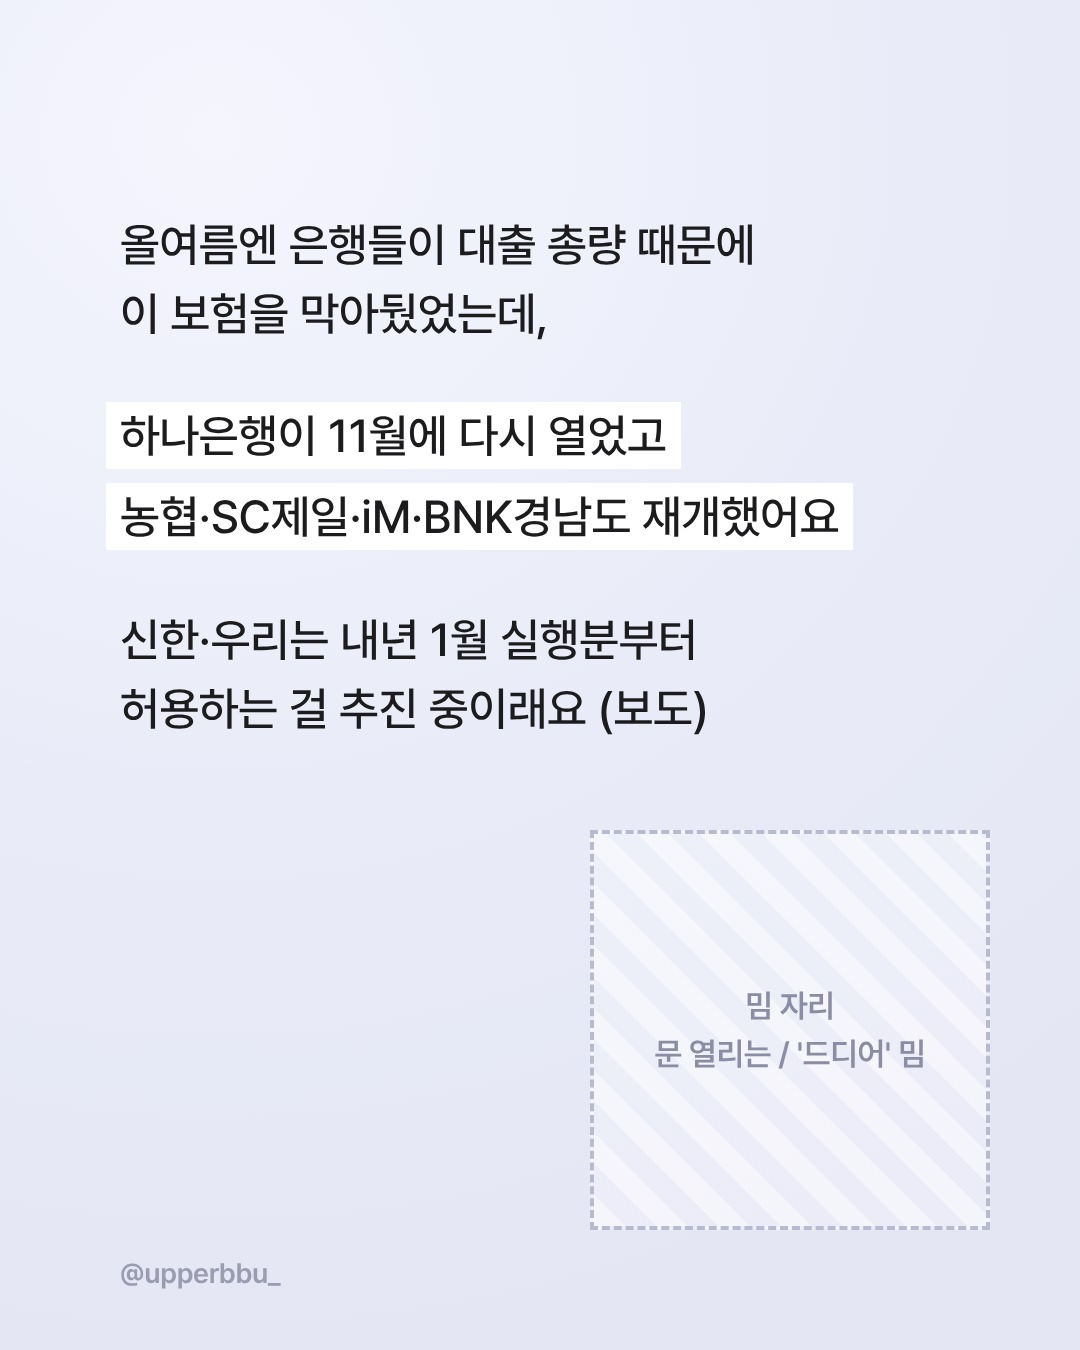
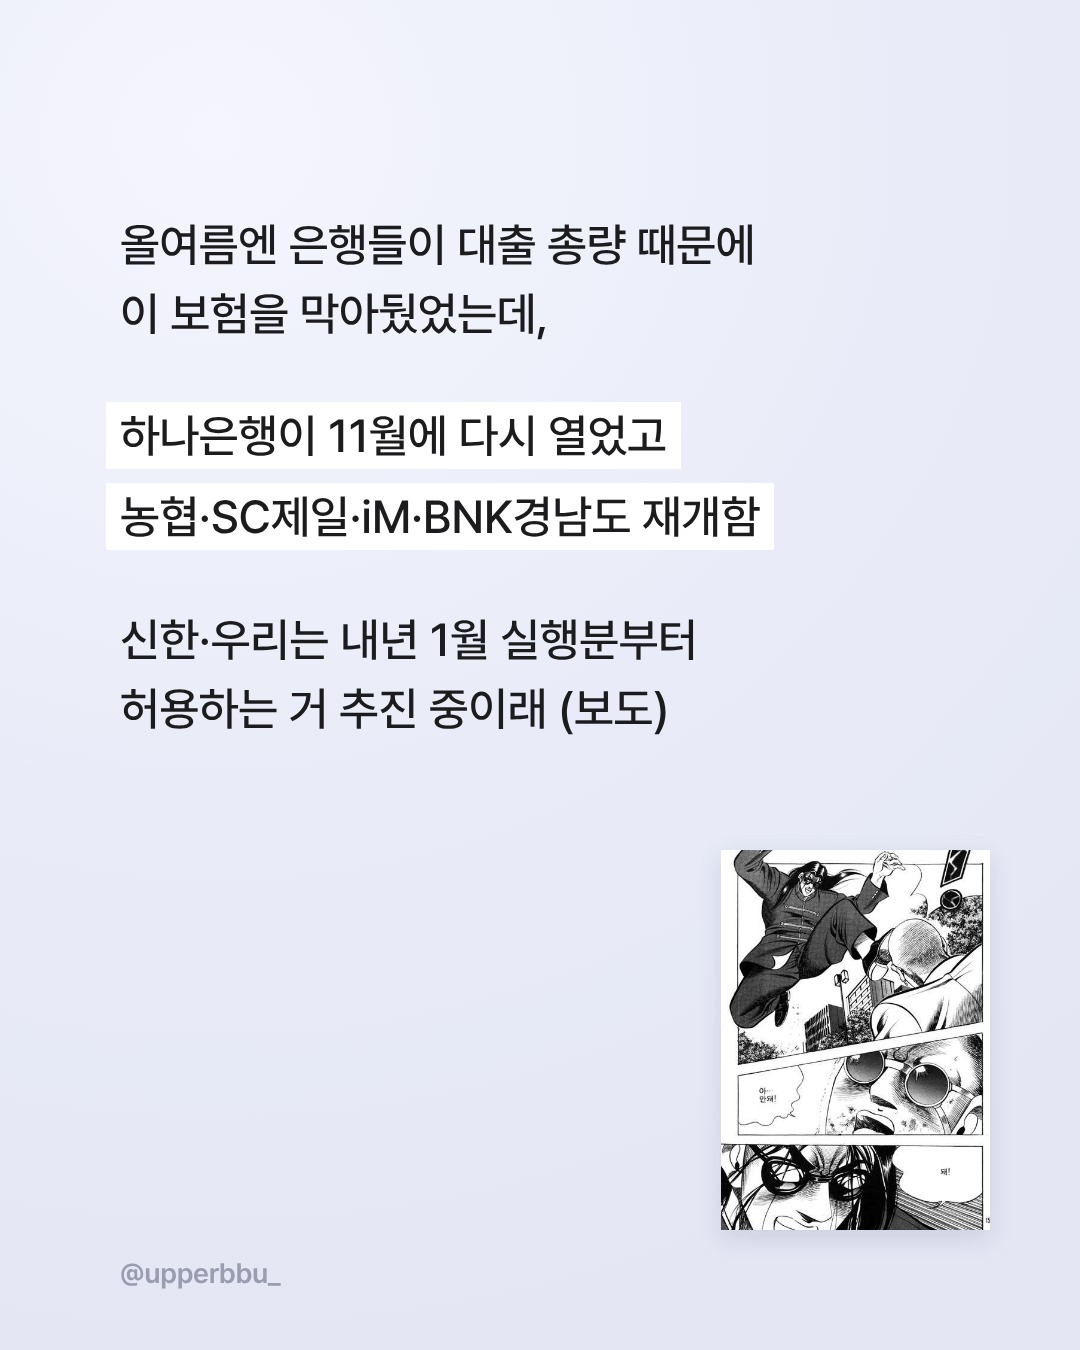
글 위주 카드+한국 밈을 기본 형식으로: 반말 일기체, 밈 모음 추가, STYLE·WEEKLY 갱신
Claude-Session: https://claude.ai/code/session_01FfMhJ4kH7Xvbi7mmnKWXqm

diff --git a/notes.css b/notes.css
@@ -17,3 +17,5 @@ body { width: 1080px; background: #fff; }
 .note .meme.left { right: auto; left: 120px; }
 .note .meme.empty { background: repeating-linear-gradient(45deg, rgba(255,255,255,.6) 0 22px, rgba(255,255,255,.25) 22px 44px); border: 4px dashed #B8BBD0; display: flex; align-items: center; justify-content: center; text-align: center; font: 600 32px/1.5 'Pretendard'; color: #8A8DA3; padding: 30px; }
 .note .handle { position: absolute; top: auto; right: auto; left: 120px; bottom: 60px; text-align: left; font: 600 28px 'Pretendard'; color: #9A9DB0; text-shadow: none; }
+/* 실제 밈 이미지: 원본 비율 유지, 오른쪽 아래 기준 */
+.note img.meme.img { width: auto; height: auto; max-width: 400px; max-height: 380px; background: none; box-shadow: 0 8px 24px rgba(40,40,80,.12); }

diff --git a/render_notes.js b/render_notes.js
@@ -15,7 +15,7 @@ const meme = (_, side, file, hint) => {
   const cls = side ? 'meme left' : 'meme';
   const p = path.join(base, 'memes', file);
   return fs.existsSync(p)
-    ? `<div class="${cls}" style="background-image:url('file://${p}')"></div>`
+    ? `<img class="${cls} img" src="file://${p}">`
     : `<div class="${cls} empty">밈 자리<br>${hint || file}</div>`;
 };
 

diff --git a/STYLE.md b/STYLE.md
@@ -4,7 +4,7 @@
 - 주제: 부동산 이슈 (매주 목요일 19:00 게시)
 - 타깃: 2030 첫 집 마련 / 3040 갈아타기 준비
 - 화자: 구리 7억 아파트를 영끌로 산 신혼부부(우리 부부) — 경험자 1인칭 시점
-- 말투: 존댓말, 이모지 OK, 친구가 알려주듯 가볍게. 면책 문구 넣지 않음.
+- 말투: (2026-11-22부터) 반말 일기체, 이모지 OK. 면책 문구 넣지 않음.
 - 제도명으로 제목 달지 않기. "누가 + 뭐가 바뀌는지"로. (근거: ANALYSIS.md)
 
 ## 콘텐츠 방향 (2026-10-22 확정)
@@ -27,7 +27,16 @@
 - 원문 접근이 안 되면 기사로 확인하고 캡션에 "공고문 원문 꼭 확인" 한 줄
 - 시세 차익(로또) 숫자는 실거래가 근거 없으면 쓰지 않음
 
-## 디자인
+## 형식 (2026-11-22 변경, 기본)
+- **글 위주 카드**: 연한 라벤더 배경 + 일기체 글 + 핵심 문단만 흰 박스 + 오른쪽 아래 작은 한국 밈 (레퍼런스: 메모장 캡처형 릴스)
+- 렌더: `node render_notes.js weeks/<날짜>/notes.json weeks/<날짜>/notes_out` (1080×1350)
+- 문법: `<p>` 문단, `<span class="box">` 흰 박스, `<span class="em">` 핑크 강조, `{{meme:파일명|안내}}` 밈 자리
+- 밈: `weeks/<날짜>/memes/`에 넣으면 들어가고 없으면 점선 빈칸. `memes/library/`에서 골라 복사하거나 사용자가 보낸 사진 사용. AI 사진 생성 안 함
+- **말투: 반말 일기체** ("~함", "~임", "~래") — 캡션도 동일
+- 사용자 경험은 지어내지 않음 (사용자가 알려준 것만)
+- 올릴 때는 앱에서 음악 넣어 **릴스**로
+
+## 이전 디자인 (사진 배경 카드, 참고용)
 - 크기: 1080×1350 (4:5) 세로형, JPEG 출력
 - 폰트: Pretendard (본문·헤드라인), Gmarket Sans (라벨 포인트)
 - 색: 핑크 포인트 `#FF4FA3` / 라벨 핑크 `#FF7BC4` / 라벨 노랑 `#FFF6B8` / 종이 배경 `#FBF8EC`

diff --git a/memes/library/README.md b/memes/library/README.md
@@ -1,0 +1,16 @@
+# 밈 모음
+
+카드뉴스 밈 자리에 쓸 한국 밈. 파일명 = `감정_밈이름.jpg` 로 골라 쓰기.
+출처: 공개 짤방 저장소 shipduck/umi (github.com/shipduck/umi). 원저작물은 각 만화·방송의 것이며 밈 관행상 인용 수준으로만 사용.
+새 밈은 사용자가 대화에 사진으로 보내주면 여기에 추가. 실존 인물 사진·선정적·정치적 짤은 넣지 않음.
+
+| 파일 | 어울리는 장면 |
+|---|---|
+| 놀람_호옹이.jpg | 표지, 깜짝 놀랄 숫자 |
+| 생각_두뇌풀가동.jpg | 개념 설명 |
+| 신남_우와아앙.jpg | 돈 이득, 좋은 소식 |
+| 반전_안돼돼.jpg | 막혔다가 풀림, 반전 |
+| 다짐_이제부턴공부뿐.jpg | 정리·저장 유도 |
+| 요약_자세한설명은생략.jpg | 복잡한 조건 생략, 요약 |
+| 안심_정상입니다.jpg | "괜찮아요", 걱정 해소 |
+| 체념_포기하면편해.jpg | 포기하지 말라는 반어, 규제 장벽 |

diff --git a/WEEKLY.md b/WEEKLY.md
@@ -29,7 +29,8 @@
 
 ## 3. 제작 (사용자 선택 직후 또는 12:00 이후)
 - 사실 확인: 청약·보조금은 공고문 원문으로. 원문 접근 실패 시 기사 2곳 이상 교차 확인 + 캡션에 "공고문 원문 꼭 확인" 한 줄.
-- 6~8장, `STYLE.md` 디자인 규칙. 렌더 후 overview를 직접 보고 겹침·빈칸·오탈자 고치기.
+- 6~8장, `STYLE.md`의 **글 위주 카드** 형식(`notes.json` → `render_notes.js`). 밈은 `memes/library/`에서 장면에 맞게 골라 `weeks/<날짜>/memes/`에 복사. 렌더 후 overview를 직접 보고 글·밈 겹침, 오탈자 고치기.
+- Figma 이미지 생성은 쓰지 않음.
 - `caption.md` 작성 (존댓말·이모지, 결론 첫 줄 → 핵심 3~4줄 → 댓글 유도, `#재테크 #신혼부부` + 내용 맞춤 2개, 면책 문구 금지)
 - 커밋·push (out/*.jpg 포함 — 인스타가 raw URL로 가져감)
 

diff --git a/weeks/2026-11-19/caption_notes.md b/weeks/2026-11-19/caption_notes.md
@@ -1,0 +1,15 @@
+보험 하나로 주담대 한도 최대 5,500만원 늘어나는 거 알았음? 🏦
+
+은행은 대출할 때 세입자 보증금 몫(방공제)을 미리 빼고 계산하는데
+모기지보험(MCI·MCG) 들면 이걸 안 빼고 계산해줌
+
+· 서울 아파트 LTV 한도 4억 → 보험 없으면 3.45억 / 가입하면 4억 그대로
+· 방 1개당 방공제: 서울 5,500만 · 경기 대부분 4,800만 · 광역시 등 2,800만 · 그 밖 2,500만
+· 하나은행 11월 재개, 농협·SC제일·iM·BNK경남도 재개
+
+단 DSR이나 주택가격별 한도에 먼저 걸리면 안 늘어나고, 대출 실행일 기준임
+상담할 때 "모기지보험 가입되나요?" 꼭 물어보기 🙌
+
+집 알아보는 친구한테 공유하고 저장해두기 📌
+
+#재테크 #신혼부부 #주담대 #모기지보험
